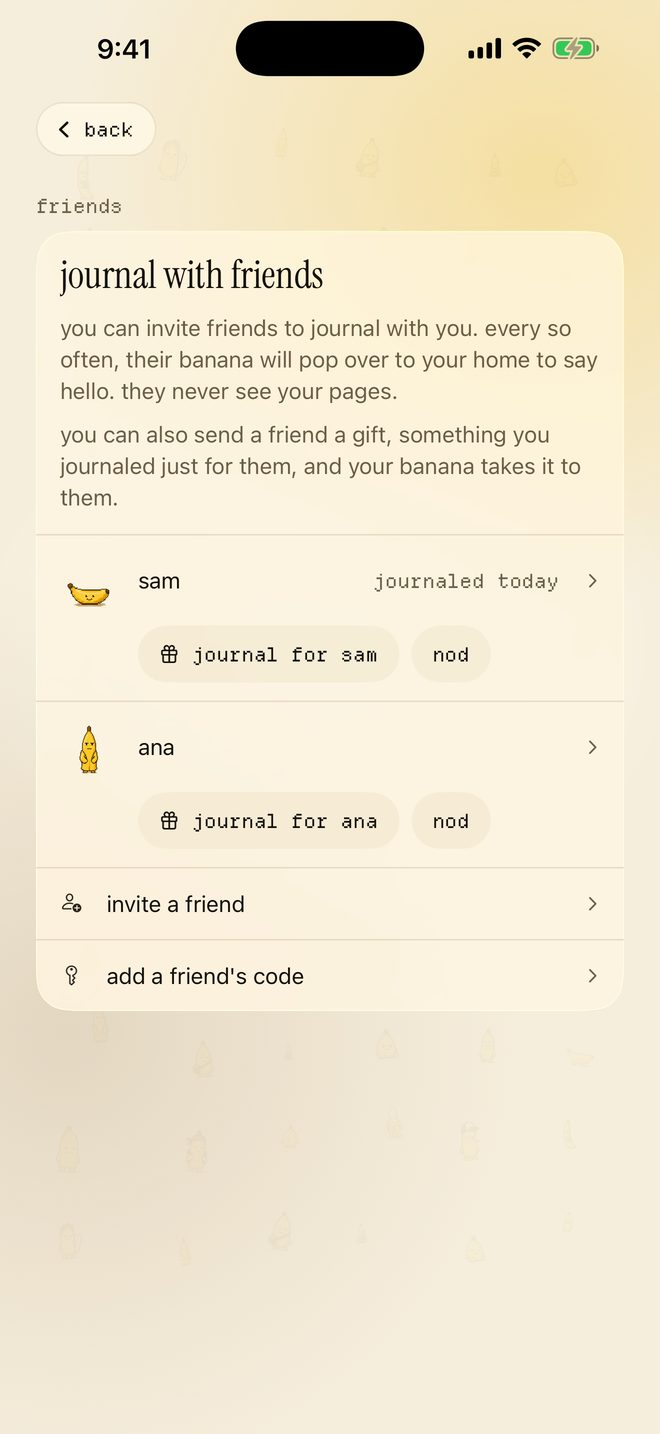
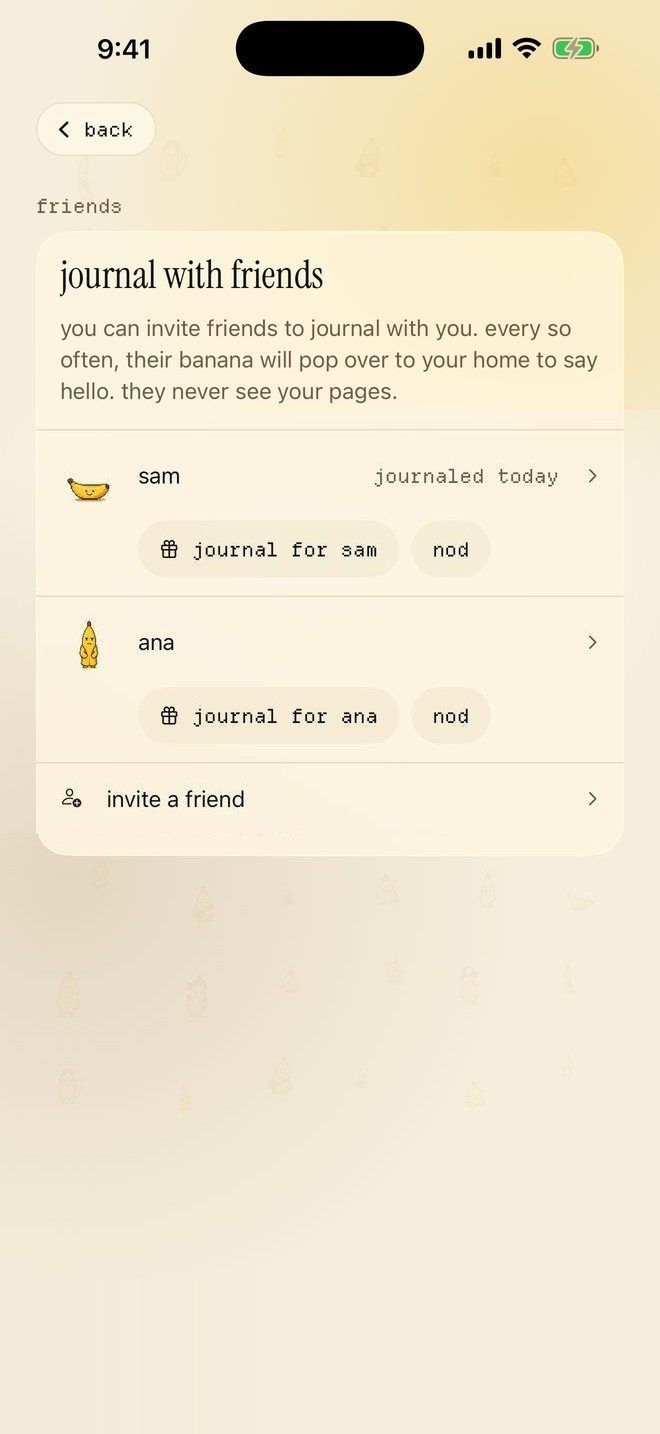
site: 1.2.2 pages (home, support, privacy, terms), friends picture

diff --git a/privacy/index.html b/privacy/index.html
@@ -53,7 +53,7 @@
 <article class="legal">
   <svg class="peel" viewBox="0 0 8 8" aria-hidden="true"><rect x="3" y="0" width="1" height="1" fill="#14110B"/><rect x="2" y="1" width="1" height="2" fill="#F2C230"/><rect x="3" y="1" width="2" height="1" fill="#F2C230"/><rect x="1" y="3" width="1" height="2" fill="#F2C230"/><rect x="2" y="3" width="2" height="1" fill="#D9A400"/><rect x="1" y="5" width="2" height="1" fill="#F2C230"/><rect x="2" y="6" width="3" height="1" fill="#F2C230"/><rect x="4" y="5" width="2" height="1" fill="#F2C230"/><rect x="5" y="4" width="1" height="1" fill="#F2C230"/><rect x="3" y="7" width="1" height="1" fill="#14110B"/></svg>
 <h1>privacy notice</h1>
-<p>Last updated 14 October 2026. Published at <a href="https://skriblio.com/privacy">skriblio.com/privacy</a>.</p>
+<p>Last updated 21 October 2026. Published at <a href="https://skriblio.com/privacy">skriblio.com/privacy</a>.</p>
 <p>Skriblio is made by STEADY LABS (PTY) LTD, registration 2026/086606/07 ("we"). Questions and requests, including anything for our Information Officer, go to <a href="mailto:info@skriblio.com">info@skriblio.com</a> and a person answers.</p>
 <p><strong>The short version.</strong> Your journal is encrypted on its way to our servers and while it's stored there. We never sell it or use it for advertising, and it is never used to train AI. A friend only sees a page you choose to send them. You can lock your vault with Face ID or a fingerprint, export everything at any time, and deleting your account deletes your journal.</p>
 <p>This notice says what we collect, why, where it goes, how long we keep it, and what you can do about it. It is written to match what the app actually does. When the app changes, this changes with it, and the date at the top moves.</p>
@@ -71,7 +71,7 @@
 <p><strong>Subscription.</strong> Purchases go through Apple or Google. We never see your card. RevenueCat, our subscription service, tells us whether your subscription is active and until when, and we store that date. RevenueCat receives your account id and an identifier for your device, so a purchase can be matched to your account.</p>
 <p><strong>Device and usage.</strong> Product analytics through PostHog and Google Analytics: which screens you open, which buttons you tap, which prompt you used, how you rated a day and how long a voice note was, so we can see what is confusing. Never your words, your photographs or what a voice note says. PostHog links these events to your account id, and its location lookup is switched off. Google Analytics uses a random id instead of your account, and works out an approximate location, such as the city, from your connection without keeping the IP address. Each of these services keeps a random id for your install. Crash reports through Sentry when the app fails, scrubbed on the phone of journal text and email, and stored without your IP address. The app sends no push notifications from a server and stores no push token. <strong>Our own ads.</strong> We advertise skriblio on Instagram, and to see which ads work, the iPhone app includes Meta's software development kit. It tells Meta that the app was installed and opened, with an anonymous id for your install, and RevenueCat tells Meta when a free trial starts or a plan is paid for, with that same anonymous id. Meta uses this to count results for our ads. The app never asks to track you and never reads your advertising identifier, so Meta only gets what Apple allows without that permission. Nothing you journal, no photographs, no voice notes and not your email ever go to Meta. We don't show ads in the app and we never sell your data.</p>
 <p><strong>Reminders.</strong> Reminders are optional and off unless you choose them. They are made on your phone by the phone itself, on a schedule it keeps, so nothing is sent to a server and no push token is stored. A reminder holds a line from the banana or a prompt to try, and never anything from your journal. If you choose the time it learns, the app keeps the time of day of your recent saves, on your phone only, to find the hour you usually journal. Choosing no reminders in the app clears the list. Notifications need your phone's permission, which you can withdraw in its settings at any time.</p>
-<p><strong>Friends.</strong> If you journal with friends, we keep the first name you typed for each friend, your banana, who you journal with, a hashed copy of each open invite (never the link) and when each was made. Each invite also has a friend code, four letters taken from the name you typed and three random digits, such as JACO 482. We keep the code with the invite so a friend can type it instead of tapping the link, and it is removed when the invite is used, cancelled or expires. A code is a small secret, so we count wrong codes (the person who typed them, and when) for two days at most and stop a person after about ten wrong ones in an hour. The friend who types a code sees your banana and the name you typed before they say yes, and nothing else. Your friends' apps can learn if you've journaled today, worked out from your pages' dates in your own time zone, and, only when you have both been away a while, that you both have. They see your banana and the name you typed. We never share a page, a title, a photo, a time or how many days. All of it is deleted when journaling together ends (an ended one is kept until you've both seen it, thirty days at most) or when you delete your account. <strong>Pages sent to a friend.</strong> If you choose to send a page to a friend you journal with, we make one copy of that page for them: its title and words, its doodle, its first photo and its first voice note if it has them, the short line you add, and the first name you typed for yourself in that friendship. The copy is stored in a private folder that only your friend can read, and it has no link back to your page, so editing or deleting your page changes nothing on their side. Your friend sees that one page and nothing else from your journal. We keep when it was sent, when your banana delivered it, when your friend took it off their tree and, if they reported it, when and why. No notification is sent: your friend finds out the next time they open skriblio. When your friend takes a page off their tree, we delete the copy at once. If they report it, we keep the copy so it can be reviewed, and delete it once the report is dealt with. A friend can block you, and then nothing more reaches them from you. You can send each friend one page a week. A page you sent is deleted when you delete your account or when your friend deletes theirs.</p>
+<p><strong>Friends.</strong> If you journal with friends, we keep your own name if you set one, the first name you typed for each friend, your banana, who you journal with, a hashed copy of each open invite (never the link) and when each was made. Each invite also has a friend code, four letters taken from the name you typed and three random digits, such as JACO 482. The current app only uses the link, but we still make a code so a friend on an older version of the app can type it instead, and it is removed when the invite is used, cancelled or expires. A code is a small secret, so we count wrong codes (the person who typed them, and when) for two days at most and stop a person after about ten wrong ones in an hour. The friend who types a code sees your banana and the name you typed before they say yes, and nothing else. Your friends' apps can learn if you've journaled today, worked out from your pages' dates in your own time zone, and, only when you have both been away a while, that you both have. They see your banana and your own name. We never share a page, a title, a photo, a time or how many days. All of it is deleted when journaling together ends (an ended one is kept until you've both seen it, thirty days at most) or when you delete your account. <strong>Pages sent to a friend.</strong> If you choose to send a page to a friend you journal with, we make one copy of that page for them: its title and words, its doodle, its first photo and its first voice note if it has them, the short line you add, and the first name you typed for yourself in that friendship. The copy is stored in a private folder that only your friend can read, and it has no link back to your page, so editing or deleting your page changes nothing on their side. Your friend sees that one page and nothing else from your journal. We keep when it was sent, when your banana delivered it, when your friend took it off their tree and, if they reported it, when and why. No notification is sent: your friend finds out the next time they open skriblio. When your friend takes a page off their tree, we delete the copy at once. If they report it, we keep the copy so it can be reviewed, and delete it once the report is dealt with. A friend can block you, and then nothing more reaches them from you. You can send each friend one page a week. A page you sent is deleted when you delete your account or when your friend deletes theirs.</p>
 <p><strong>Care log.</strong> A short record of what the banana did and when, such as the day you came back after a quiet spell. It is included when you export your journal.</p>
 <h2>Lawful basis (for readers in the EU and UK)</h2>
 <p>Performance of a contract for the journal, account and subscription features you asked for. Consent for typing up photographs in the cloud (a card asks once, before any photograph leaves the phone for a model). Legitimate interest for crash reporting and product analytics, which you can object to by emailing us.</p>

diff --git a/support/index.html b/support/index.html
@@ -71,8 +71,10 @@
     <details><summary>the typed up words are wrong</summary><p>open the page, tap 'typed up' under the photo, then 'edit', and fix the word. your phone remembers the change for the next page, and the photo stays exactly as you took it. for a voice note, tap the small pencil next to its words.</p></details>
     <details><summary>typing up a voice note</summary><p>open the page in your vault, tap 'not typed up' under the voice note, then 'type it up'. an iphone does this by itself, without sending the recording anywhere. on android, voice notes stay as recordings for now, because typing them up isn't available there yet.</p></details>
     <details><summary>face id</summary><p>turn on 'face id lock' under 'settings' in the 'you' tab. your vault and your pages then ask for face id or your passcode, and home and your banana stay open. on android it's called 'fingerprint lock' and uses your fingerprint or your screen lock. it's off until you turn it on, and it only covers skriblio on that phone. while it's on, the 'from your tree' widget shows nothing from your journal.</p></details>
-    <details><summary>journaling with a friend</summary><p>in the 'you' tab, tap 'invite a friend', type the name your friend knows you by and send the message. its link works once, for seven days, and a friend new to skriblio signs up first, then taps it again. you can have up to three friends. a friend sees your banana, your name and if you journaled today, and never a page, a photo or a time. tap a friend to turn their visits off or to remove or report them. a nod from a friend, or two friends who journaled the same day, shows on home only, and nothing buzzes your phone.</p></details>
-    <details><summary>journaling something for a friend</summary><p>tap 'journal', then 'get a prompt' and 'for a friend', or tap a friend in the 'you' tab and then 'journal something for' them. pick who it's for and journal the page, photo, voice note or doodle. when you save it, you choose whether to send it, and you can add a short note like 'this made me think of you'. your banana delivers it the next time your friend opens skriblio, and nothing buzzes their phone. you can send each friend one a week, and you can take it back until it's delivered. your friend can take it off their tree, report it from the card, or block you from your name in their friends list.</p></details>
+    <details><summary>journaling with a friend</summary><p>in the 'you' tab, tap 'invite a friend' and send the message. the first time, it asks for your name, which your friends see, and you can type your friend's name too, which only you see. its link works once, for seven days, and a friend new to skriblio signs up first, then taps it again. you can have up to three friends. a friend sees your banana, your name and if you journaled today, and never a page, a photo or a time. tap a friend to turn their visits off or to remove or report them. a nod from a friend, or two friends who journaled the same day, shows on home only, and nothing buzzes your phone.</p></details>
+    <details><summary>journaling something for a friend</summary><p>tap 'journal', then 'get a prompt' and 'for a friend', or tap a friend in the 'you' tab and then 'journal something for' them. pick who it's for and journal the page, photo, voice note or doodle. when you save it, you choose whether to send it, and you can add a short note like 'this made me think of you'. your banana delivers it the next time your friend opens skriblio, and nothing buzzes their phone. it waits on their home until they open it. you can send each friend one a week, and you can take it back until it's delivered. your friend can take it off their tree, report it from the card, or block you from your name in their friends list.</p></details>
+    <details><summary>go deeper</summary><p>open the full list of prompts and tap 'go deeper', under 'journal school'. it has eight series, each six or seven prompts on one subject, like money or a person you keep thinking about. open one and answer the prompts in order, by typing, by voice, or by writing in your notebook and scanning the page. the last prompt is a page with a few boxes that turns it into a plan. nothing expires, so you can do one now and the next one next week.</p></details>
+    <details><summary>today's word or game</summary><p>after the first page you save each day, a small extra shows up. it's a word or a fact, with a tiny game if you want one. a scanned notebook page brings it too. nothing counts how often you play, and your banana doesn't change because of it.</p></details>
     <details><summary>worlds</summary><p>turn on 'worlds' in 'appearance' in the 'you' tab, then pick 'the planet', 'the greenhouse' or 'the clouds'. tap things and they move, and pinch with two fingers to look closer. each world has five rare moments that come on some days. stay away a while and your world looks a bit off, and journaling settles it.</p></details>
     <details><summary>your journal in numbers</summary><p>open 'your journal in numbers' under 'your journal' in the 'you' tab. it shows your pages, your days journaled, your longest streak and a few more things, counted on your phone each time you open it. it sits behind the lock if you have one on.</p></details>
     <details><summary>the desktop companion</summary><p>it comes with both plans, and it needs the phone app. go to <a href="../desktop/">skriblio.com/desktop</a> on your computer, and the download for a mac or a windows computer starts by itself. open it, then open the 'you' tab on your phone, tap 'desktop companion' and 'make a code', and type that code on the computer.</p></details>

diff --git a/terms/index.html b/terms/index.html
@@ -53,7 +53,7 @@
 <article class="legal">
   <svg class="peel" viewBox="0 0 8 8" aria-hidden="true"><rect x="3" y="0" width="1" height="1" fill="#14110B"/><rect x="2" y="1" width="1" height="2" fill="#F2C230"/><rect x="3" y="1" width="2" height="1" fill="#F2C230"/><rect x="1" y="3" width="1" height="2" fill="#F2C230"/><rect x="2" y="3" width="2" height="1" fill="#D9A400"/><rect x="1" y="5" width="2" height="1" fill="#F2C230"/><rect x="2" y="6" width="3" height="1" fill="#F2C230"/><rect x="4" y="5" width="2" height="1" fill="#F2C230"/><rect x="5" y="4" width="1" height="1" fill="#F2C230"/><rect x="3" y="7" width="1" height="1" fill="#14110B"/></svg>
 <h1>terms of use</h1>
-<p>Last updated 8 October 2026. Published at <a href="https://skriblio.com/terms">skriblio.com/terms</a>.</p>
+<p>Last updated 21 October 2026. Published at <a href="https://skriblio.com/terms">skriblio.com/terms</a>.</p>
 <p>These terms are between you and STEADY LABS (PTY) LTD, registration 2026/086606/07, South Africa ("we"), for the Skriblio app, its widgets, the desktop companion and the skriblio.com pages. By creating an account you agree to them. If you do not, do not use the app.</p>
 <h2>Who can use it</h2>
 <p>You must be 16 or older. If you are under 18, you confirm that you are old enough to use the service where you live, and that you can accept these terms or have a parent or guardian who agrees to them. One account per person.</p>
@@ -64,7 +64,7 @@
 <h2>Your journal is yours</h2>
 <p>You own everything you write, record and photograph. You give us only the permission needed to store it, type it up, search it and show it back to you, and to export it when you ask. We do not read your journal except when you ask for support on a specific entry, and we never use it to train models or to advertise.</p>
 <h2>Journaling with friends</h2>
-<p>You may invite up to three people you know to journal with you, by sending them a link or your friend code. A code works once and lasts seven days, and you should only give it to people you know. Your friend decides for themselves by accepting the invite, and either of you can stop at any time. The first name you type is shown to your friend, so use your own. You may not use invites or names to harass or impersonate anyone, and we will end accounts that do. Nobody gets free time or any other reward for inviting or accepting.</p>
+<p>You may invite up to three people you know to journal with you, by sending them a link. A link works once and lasts seven days, and you should only send it to people you know. Your friend decides for themselves by accepting the invite, and either of you can stop at any time. The name you give yourself in the app is shown to your friend, so use your own. You may not use invites or names to harass or impersonate anyone, and we will end accounts that do. Nobody gets free time or any other reward for inviting or accepting.</p>
 <h2>Pages you send to a friend</h2>
 <p>You may send a page you have journaled to a friend you journal with, once a week for each friend. You are responsible for what you send, and you may only send what you have the right to share. A page can't be abusive, threatening, sexual, or about someone who hasn't agreed to it being shared. Your friend may keep the page, take it off their tree, report it, or block you, and once your banana has delivered it you can't take it back. We may remove a reported page and end the access of anyone who sends things that break these terms.</p>
 <h2>Subscription</h2>

diff --git a/index.html b/index.html
@@ -66,7 +66,7 @@
     <h2 id="ways-h">three ways to journal.</h2>
     <p class="hm-lead">some days you want to type, some days you'd rather talk, and some days you've already filled a page in your notebook. skriblio keeps all of it in one place.</p>
     <ul class="hm-list">
-      <li><b>type</b><span>tap 'journal' and type a few lines, or start from today's prompt.</span></li>
+      <li><b>type</b><span>tap 'journal' and type a few lines, start from today's prompt, or work through a series in 'go deeper'.</span></li>
       <li><b>talk</b><span>record a voice note. it's kept exactly as you said it.</span></li>
       <li><b>scan</b><span>take a photo of a page in your notebook. skriblio types up the handwriting so you can search for it later.</span></li>
     </ul>
@@ -120,16 +120,16 @@
 <section class="hm hm-split" id="friends" aria-labelledby="friends-h">
   <div class="hm-copy">
     <h2 id="friends-h">journal with friends.</h2>
-    <p class="hm-lead">invite a friend to journal with you. now and then their banana pops over to your home to say hello. you can also send a friend something you journaled just for them, and your banana takes it to them.</p>
+    <p class="hm-lead">invite a friend to journal with you. now and then their banana pops over to your home to say hello. you can also send a friend something you journaled just for them. your banana takes it to them, and it waits on their home until they open it.</p>
     <p class="hm-lead">they never see the rest of your journal.</p>
   </div>
-  <figure class="pf"><span class="pf-bezel"><img src="img/product/home-friends.jpg?v=110" alt="this is the 'journal with friends' screen. it lists two friends, sam and ana, with a 'journal for' button under each. below them are 'invite a friend' and 'add a friend's code'." width="330" height="717" loading="lazy" decoding="async" /></span></figure>
+  <figure class="pf"><span class="pf-bezel"><img src="img/product/home-friends.jpg?v=110" alt="this is the 'journal with friends' screen. it lists two friends, sam and ana, with a 'journal for' button under each. below them is 'invite a friend'." width="330" height="717" loading="lazy" decoding="async" /></span></figure>
 </section>
 
 <section class="hm hm-end" id="yours" aria-labelledby="yours-h">
   <div class="hm-copy hm-center">
     <h2 id="yours-h">your journal stays yours.</h2>
-    <p class="hm-lead">it isn't sold, used for ads or used to train ai. lock it with face id, export everything whenever you like, or delete your account from inside the app.</p>
+    <p class="hm-lead">it isn't sold, used for ads or used to train ai. lock it with face id or a fingerprint, export everything whenever you like, or delete your account from inside the app.</p>
   </div>
   <div class="hm-price">
     <h3>two weeks free.</h3>
